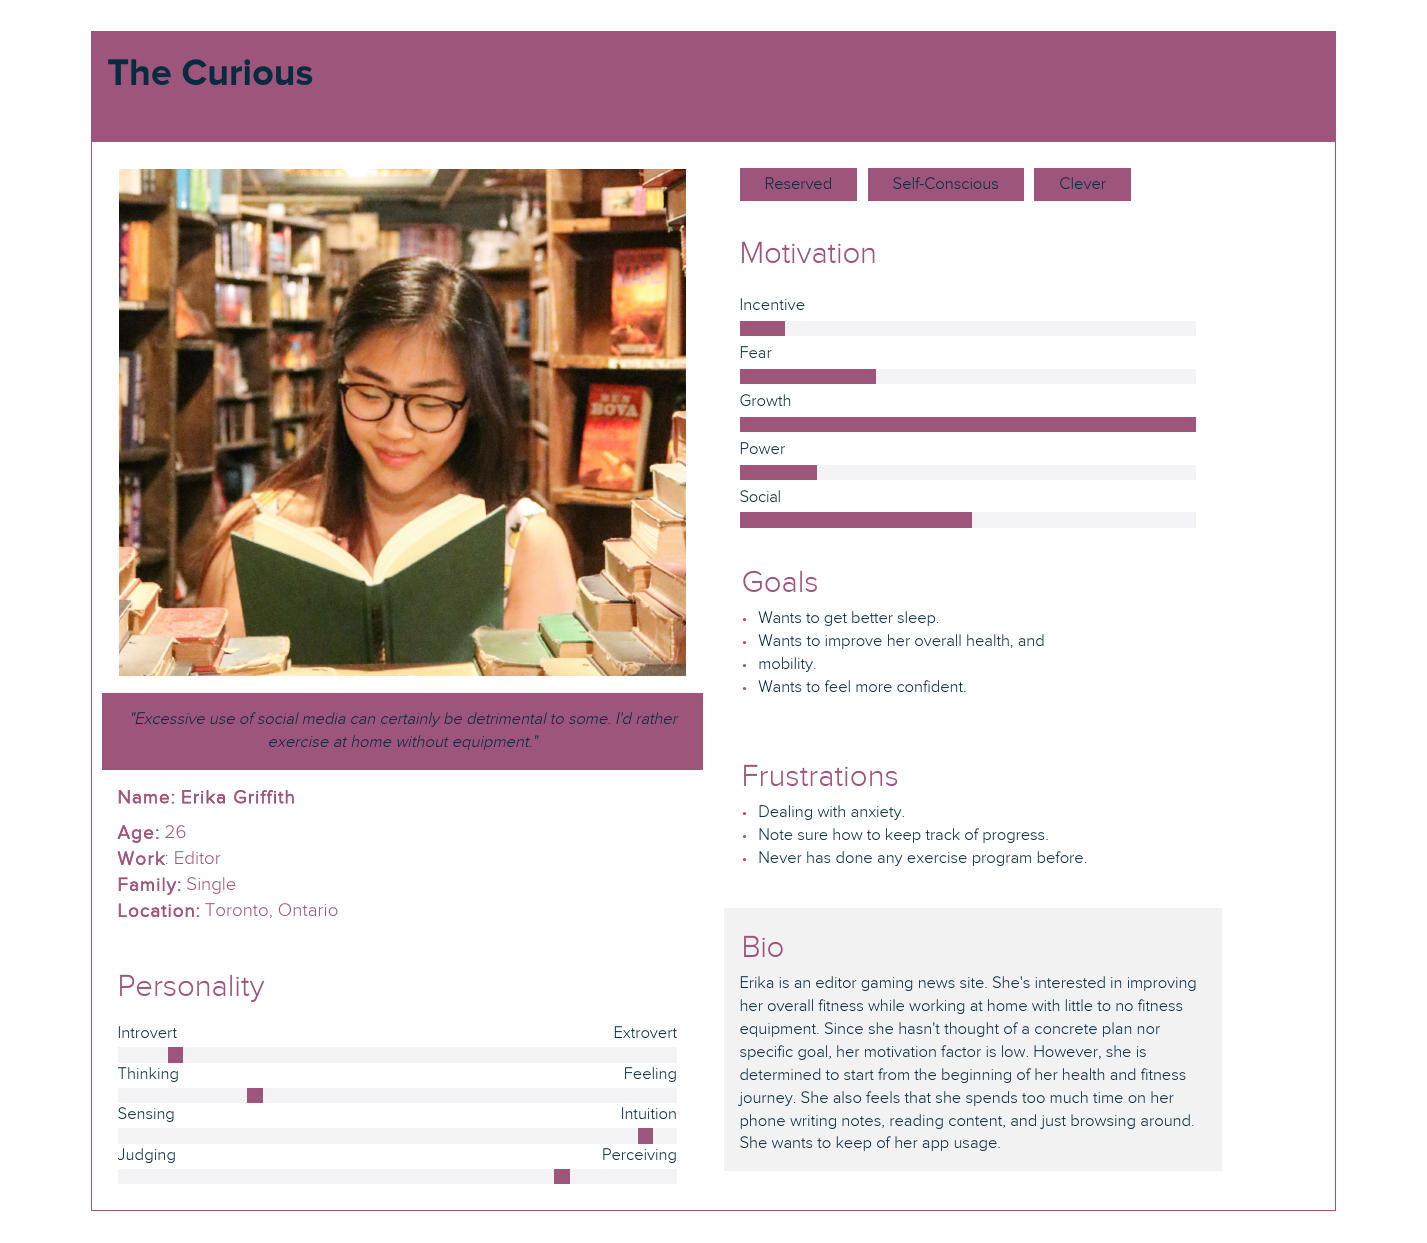
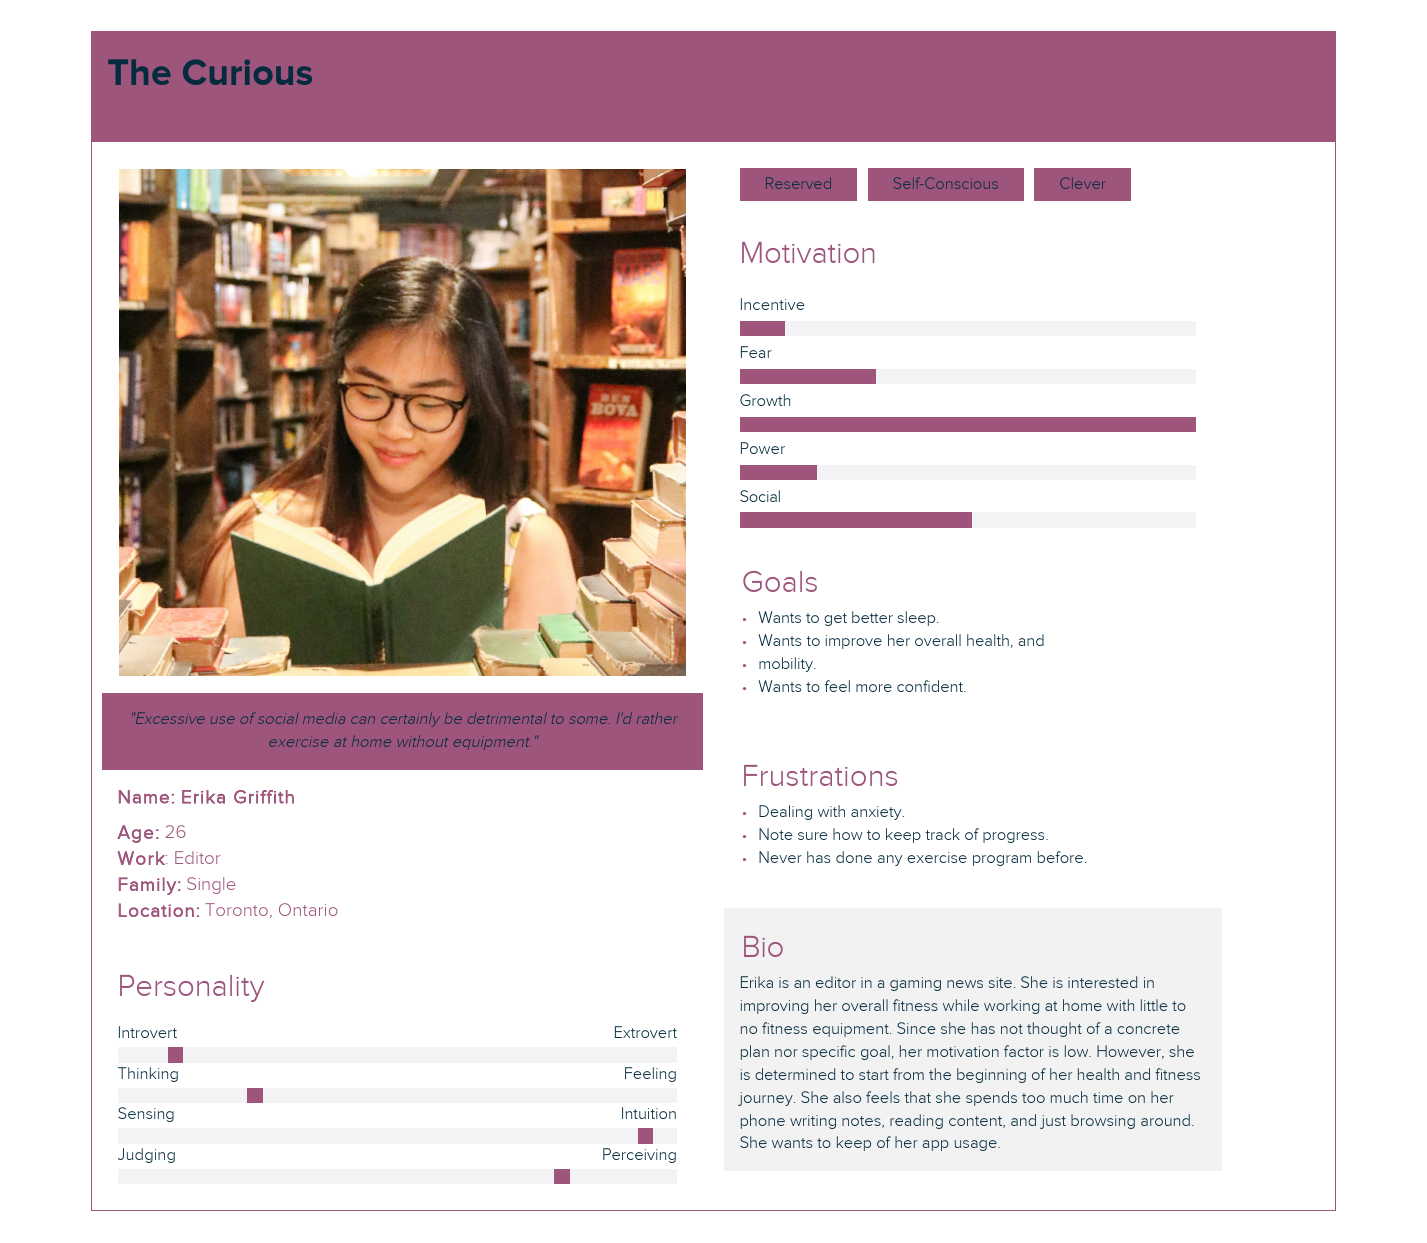
yum

Changed region(s): [[0.5242, 0.7643, 0.8325, 0.8866]]

diff --git a/index.html b/index.html
@@ -71,7 +71,8 @@
 										One could say and app with this many goals is counterintuitive to reducing screen time usage. 
 										Locking the user out of the app if they spend too much screen time would be a terrible design choice. 
 										The choice belongs to the user. 
-										The app would only encourage the user to incorporate healthy screen habits and a healthy lifestyle.  </p>
+										The app would only encourage the user to incorporate healthy screen habits and a healthy lifestyle.  
+									</p>
 								</div>
 								
 							</div>
@@ -86,11 +87,16 @@
 									<h2><strong>Understanding the problem<strong></h2>
 								</header>
 								<p>
-									Sed tristique purus vitae volutpat ultrices. 
-									Aliquam eu elit eget arcu comteger ut fermentum lorem. 
-									Lorem ipsum dolor sit amet. Sed tristique purus vitae volutpat ultrices. 
-									eu elit eget commodo. Sed tristique purus vitae volutpat ultrices. 
-									Aliquam eu elit eget arcu commodo.
+									Good health and fitness are an important aspect of improving one one's quality of life. 
+									There's a correlation with excessive screen time usage being associated with anxiety, 
+									sleep issues, weight gain and many other possible physical and mental health effects.
+								</p>
+
+								<p>
+									Ideally, we would want an app that will encourage the user with healthy screen habits 
+									by providing a means to reduce it with physical exercise information, tools to log 
+									workouts, a community forum to achieve similar goals, meal planning with analytics, 
+									and encouraging good sleep habits. 
 								</p>
 
 							</div>
@@ -107,11 +113,9 @@
 									<h2><strong>Research</strong></h2>
 								</header>
 								<p>
-									Sed tristique purus vitae volutpat ultrices. 
-									Aliquam eu elit eget arcu comteger ut fermentum lorem. 
-									Lorem ipsum dolor sit amet. Sed tristique purus vitae volutpat ultrices. 
-									eu elit eget commodo. 
-									Sed tristique purus vitae volutpat ultrices. Aliquam eu elit eget arcu commodo.
+									The app would have to be designed using the UX/UI design process. 
+									To start of the research a google forms survey was created to ask 
+									the participant on their thought on health and wellness apps. 
 								</p>
 
 							</div>
@@ -135,42 +139,116 @@
 									that a routine in physical fitness will help in in reducing the overall screen time, 
 									stress, improving physical overall health for most people.
 								</p>
-
-								<p>
-									Upon asking the survey participants on the benefits and/or drawbacks of health related 
-									apps, many matters were learned. One person wrote that they would be a general benefit 
-									especially during pandemic times. Another wrote a drawback on having unnecessary 
-									pressures on an app planning your diets and fitness routines.
-								</p>
-
-								<p>
-									Most of the participants found that social media apps were detrimental to your health and well-being. 
-								</p>
+								
 							</div>
 
 							<div>
 								<p>
 									<img src="images/habits.png" alt="Habits" style="height: 100%; width: 100%; object-fit: contain">
 									<p>
-										The majority of the participants are getting the reccomeded or acceptable amount of sleep, However, a sizeable 27.6% are still not getting good night's rest.
+										The majority of the participants are getting the recommended or acceptable amount of sleep, However, a sizeable 27.6% are still not getting good night's rest.
 									</p>
 								</p>
 							</div>
-							
-									
+		
 								
-
-
-								<section>
 									<img src="images/app-use.png" alt="App Usage" style="height: 100%; width: 100%; object-fit: contain">
 									<p>
 										The participants were asked if they used any fitness apps or nutrition apps. 
 										For both questions, 51.7% answered yes. For sleeping apps, only 27.6% answered yes. 
 										Even less so for mood tracking apps at 13.8% responding with yes.
 									</p>
-								</section>
+								
 
 							</div>
+
+							<div>
+								<img src="images/fitness-activity-type.png" alt="Fitness Activity" style="height: 80%; width: 80%; object-fit: contain">
+								<p>
+									With the pandemic going on, most of the participants exercise at home now with or with any equipment.
+								</p>
+							
+							</div>
+
+							<div>
+								<img src="images/key-fitness-goals.png" alt="Key Fitness Goals" style="height: 80%; width: 80%; object-fit: contain">
+								<p>
+									This was an important question to ask the participants. It was important 
+									to know what the user would be looking for the right app. It is essential 
+									to understand their goals and make sure the goals of the user align with 
+									the features provided by the app. Knowing their goals makes it easier to 
+									generate user personas. 
+								</p>
+
+								<p>
+									For survey question, it was realized that most users would want to improve 
+									their mobility, lose weight, sleep better, gain muscle, build strength, more 
+									endurance, and have more confidence and energy. It was understood that there 
+									are many reasons to stay active.
+								</p>
+							
+							</div>
+
+							<div>
+								<img src="images/training-hindrances.png" alt="Training Hindrances" style="height: 80%; width: 80%; object-fit: contain">
+							<p>
+								Time, motivation, and work are the strong contributors preventing the participants 
+								from exercising as much as they like to. 
+								Family balance, confidence, and knowledge in exercise are the minor contributors.
+							</p>
+							</div>
+
+							<p>
+								Upon asking the survey participants on the benefits and/or drawbacks of health related 
+								apps, many matters were learned. One person wrote that they would be a general benefit 
+								especially during pandemic times. Another wrote a drawback on having unnecessary 
+								pressures on an app planning your diets and fitness routines.
+							</p>
+
+							<p>
+								Most of the participants found that social media apps were detrimental to your health 
+								and well-being. 
+							</p>
+
+							<p>
+								“Ones that make you compare yourself to other 
+								people and ones that encourage you to stay on them as long as possible.”
+							</p>
+
+							<p>
+								On asking about the types of apps the participants find to improve their healthy habits, 
+								it was revealed that reminder apps, sleep tracking apps, meal logging, and workout logging 
+								apps would be the heart of improving their healthy habits. 
+							</p>
+
+							<p>
+								“Apps that you can log workouts and meals into, or apps that that time your screen usage 
+								and send many notifications to you for reminders.”
+							</p>
+
+							<p>
+								The kinds of apps that the participants find could increase their happiness would be 
+								apps that encourage fitness and working towards a goal.
+							</p>
+
+							<p>
+								“Apps that show you how to workout at home without equipment.”
+							</p>
+
+							<p>
+								“Apps that encourage fitness and working towards goals.”
+							</p>
+
+							<p>
+								“Apps where I can connect with other people, meditation, etc.”
+							</p>
+
+							<p>
+								Every person has different needs but they are not all too different. 
+								The survey helped in knowing the what the user’s value and require 
+								of a health and fitness app. All the survey information is valuable 
+								in creating user personas.
+							</p>
 							
 						</div>
 					</section>
@@ -184,22 +262,46 @@
 									<h2><strong>Personas</strong></h2>
 								</header>
 								<p>
-									Sed tristique purus vitae volutpat ultrices. 
-									Aliquam eu elit eget arcu comteger ut fermentum lorem. 
-									Lorem ipsum dolor sit amet. Sed tristique purus vitae volutpat ultrices. 
-									eu elit eget commodo. Sed tristique purus vitae volutpat ultrices. 
-									Aliquam eu elit eget arcu commodo.
+									Three personas were created to show the possible 
+									types of users that would be attracted to the app. 
 								</p>
 							<div>
 								<img src="images/TheDeskJockey.png" alt="The Desk Jockey" style="height: 100%; width: 100%; object-fit: contain">
+								<p>
+									Archie is the type of user who has exercised before but never 
+									really on a consistent basis. Either due to work, family work, 
+									motivation, or stress. Though overtime, this type of user realized 
+									they want to change. Maybe they feel have less energy now want to 
+									feel refreshed. For Archies case, being a desk jockey and not being 
+									too conscious of what he eats, wants to shed some weight and feel better.
+								</p>
 							</div>
 
 							<div>
 								<img src="images/TheCurious.png" alt="The Curious" style="height: 100%; width: 100%; object-fit: contain">
+								<p>
+									Erika is a represents a user who wants to fit and healthy but never went 
+									to a gym because they felt a little intimidated. None their friends were 
+									involved in any fitness activities. There was never a push to get Erika 
+									to start exercising. She knows that it will a great to her if she does, 
+									so downloading the app would be her trying to get her foot in the door. 
+									People should not feel rushed to start exercising, it should gradually 
+									come at their pace. 
+								</p>
 							</div>
 
 							<div>
 								<img src="images/ThePowerlifter.png" alt="The Powerlifter" style="height: 100%; width: 100%; object-fit: contain">
+								<p>
+									Keith is the kind of user who has some experience training. He has 
+									followed established powerlifting/strength programs. Keith would an 
+									app where he can record and keep track of his training activities. 
+									He would also like keep track of his eating to track his weigh gain 
+									goals. He would want to be part of community with similar goal. A 
+									community forum will allow him to post question and write about 
+									topics related to his interests. Members of the forum community 
+									would give their responses and suggestions.
+								</p>
 							</div>
 
 							</div>
@@ -316,41 +418,83 @@
 						</div>
 					</section>
 
-					<!-- Three -->
-						<section class="wrapper style1 container special">
-
-							<header>
-								<h2>Next look at this cool stuff</h2>
-							</header>
-
-							<div class="row">
-								
-
-									<section>
-										<a href="#" class="image featured"><img src="images/vegetables.jpg" alt="" /></a>
-										<header>
-											<h3>A Really Fast Train</h3>
-										</header>
-										<p>Sed tristique purus vitae volutpat commodo suscipit amet sed nibh. Proin a ullamcorper sed blandit. Sed tristique purus vitae volutpat commodo suscipit ullamcorper sed blandit lorem ipsum dolore.</p>
-									</section>
-
-								
-
-								</div>
-							</div>
+				<!-- Typography -->
+				<section class="wrapper style1 container special-alt">
+					<div class="row gtr-50">
+						<div>
 
 							
+							<header>
+								<h2><strong>Typography</strong></h2>
+							</header>
+							
+							<p>
+								Sed tristique purus vitae volutpat ultrices. 
+								Aliquam eu elit eget arcu comteger ut fermentum lorem. 
+								Lorem ipsum dolor sit amet. Sed tristique purus vitae volutpat ultrices.
+								 eu elit eget commodo. Sed tristique purus vitae volutpat ultrices. 
+								 Aliquam eu elit eget arcu commodo.
+							</p>
+								
+						</div>
+						
+					</div>
+				</section>
+				
+				<!-- Final Design -->
+				<section class="wrapper style1 container special-alt">
+					<div class="row gtr-50">
+						<div>
 
-						</section>
+							
+							<header>
+								<h2><strong>Final Design</strong></h2>
+							</header>
+							
+							<p>
+								Sed tristique purus vitae volutpat ultrices. 
+								Aliquam eu elit eget arcu comteger ut fermentum lorem. 
+								Lorem ipsum dolor sit amet. Sed tristique purus vitae volutpat ultrices.
+								 eu elit eget commodo. Sed tristique purus vitae volutpat ultrices. 
+								 Aliquam eu elit eget arcu commodo.
+							</p>
+								
+						</div>
+						
+					</div>
+				</section>
+				
+				<!-- Conclusion -->
+				<section class="wrapper style1 container special-alt">
+					<div class="row gtr-50">
+						<div>
+
+							
+							<header>
+								<h2><strong>Conclusion</strong></h2>
+							</header>
+							
+							<p>
+								Sed tristique purus vitae volutpat ultrices. 
+								Aliquam eu elit eget arcu comteger ut fermentum lorem. 
+								Lorem ipsum dolor sit amet. Sed tristique purus vitae volutpat ultrices.
+								 eu elit eget commodo. Sed tristique purus vitae volutpat ultrices. 
+								 Aliquam eu elit eget arcu commodo.
+							</p>
+								
+						</div>
+						
+					</div>
+				</section>
 
 				</article>
 
-			<!-- CTA -->
-				<section id="cta">
+			<!-- banner -->
+				<section id="banner">
 
 					<header>
 						<h2>Ready to do <strong>something</strong>?</h2>
-						<p>Proin a ullamcorper elit, et sagittis turpis integer ut fermentum.</p>
+						
 					</header>
 					
 
